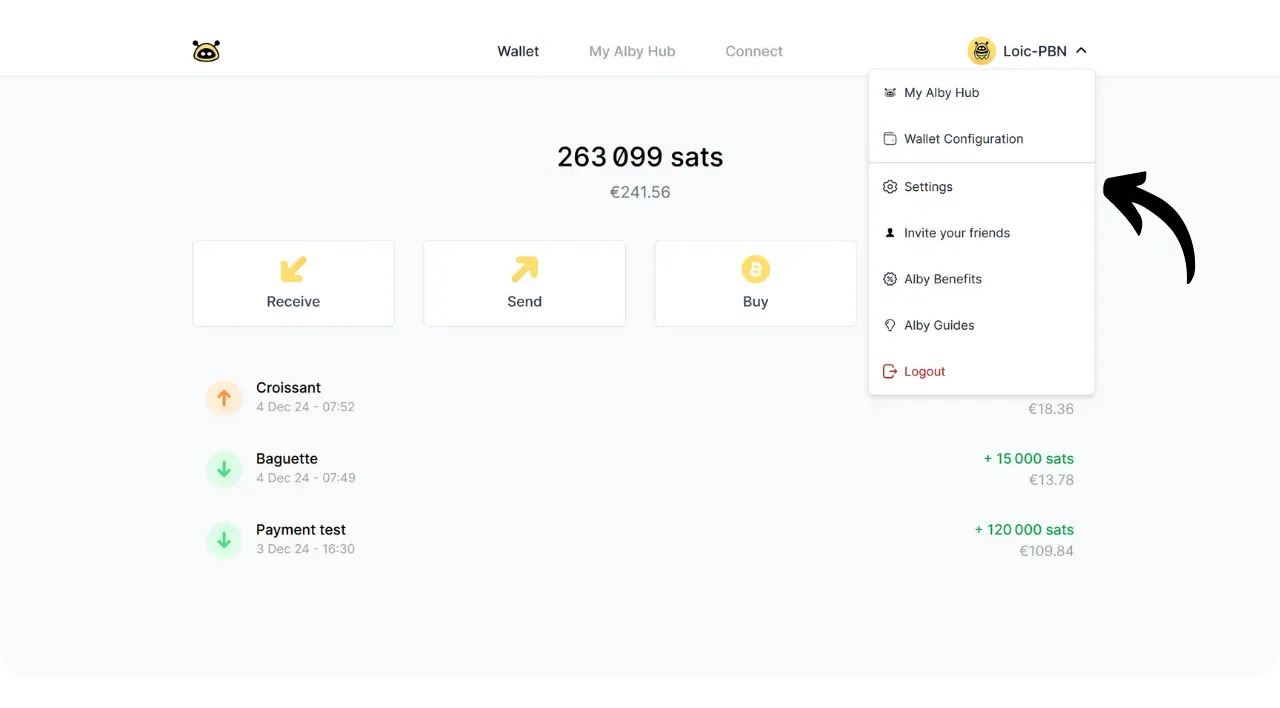
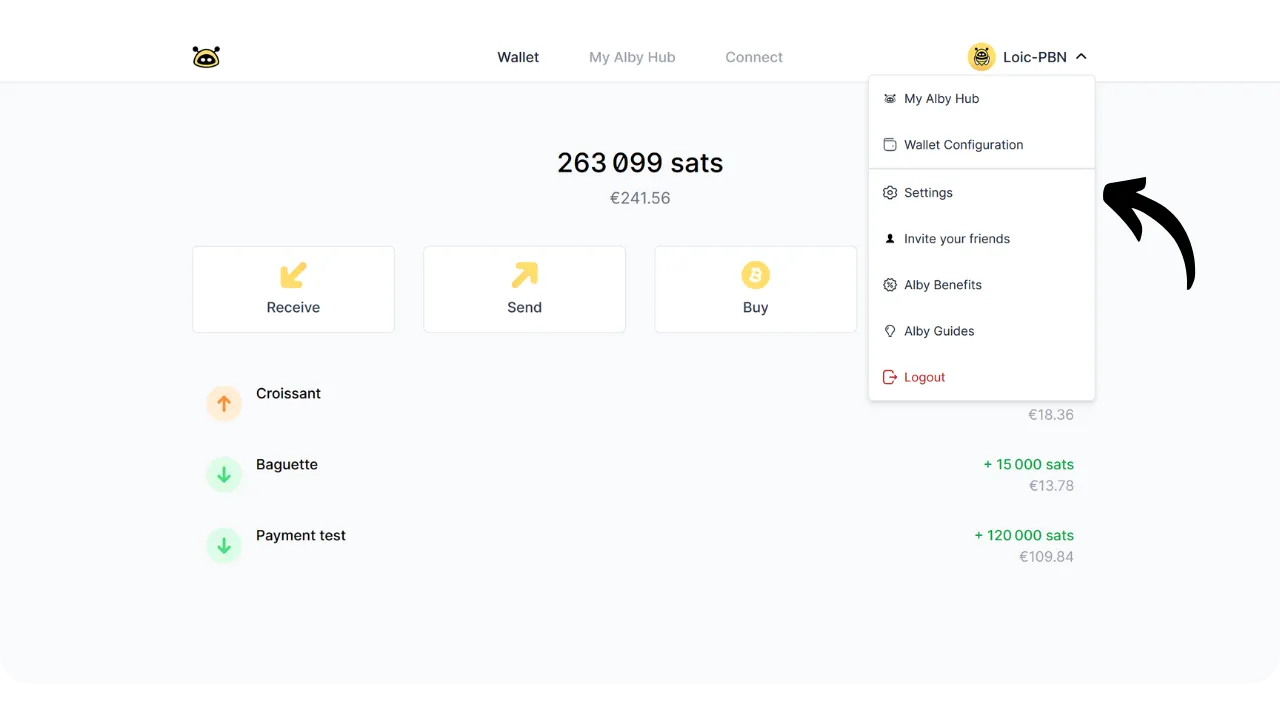
img path

diff --git a/tutorials/node/alby-hub/fr.md b/tutorials/node/alby-hub/fr.md
@@ -8,7 +8,7 @@ Alby Hub est le dernier logiciel développé par Alby, la société à l'origine
 
 Dans ce tutoriel, nous allons découvrir différentes façons d'utiliser Alby Hub pour gérer son propre nœud Lightning et comment le connecter à Alby Go, l'application mobile d'Alby. Cela vous permettra de dépenser vos sats en déplacement tout en étant autonome sur la gestion de votre nœud.
 
-01
+![ALBY HUB](assets/fr/01.webp)
 
 ## C'est quoi Alby Hub ?
 
@@ -36,11 +36,11 @@ Pour les utilisateurs avancés, Alby Hub peut être déployé sur un serveur per
 
 Ce tutoriel se concentre principalement sur l'interface, qui sera la même quelle que soit l'option choisie. Nous allons également voir comment déployer Alby Hub avec l'option du cloud payant, puis avec l'option du node-in-box (Umbrel ou Start9).
 
-02
+![ALBY HUB](assets/fr/02.webp)
 
 Pour une installation locale sur votre PC, [téléchargez et installez le logiciel selon votre système d'exploitation](https://github.com/getAlby/hub/releases), puis suivez les mêmes instructions au niveau de l'interface.
 
-03
+![ALBY HUB](assets/fr/03.webp)
 
 ## Créer un compte Alby
 
@@ -48,23 +48,23 @@ La première étape consiste à créer un compte Alby. Bien que ce ne soit pas i
 
 Rendez-vous sur [le site officiel d'Alby](https://getalby.com/) et cliquez sur le bouton "*Create Account*".
 
-04
+![ALBY HUB](assets/fr/04.webp)
 
 Saisissez un pseudonyme et une adresse email, puis cliquez sur "*Sign up*". Cette adresse email servira à vous connecter à votre compte par la suite.
 
-05
+![ALBY HUB](assets/fr/05.webp)
 
 Entrez le code de vérification que vous avez reçu par email.
 
-06
+![ALBY HUB](assets/fr/06.webp)
 
 Une fois connecté à votre compte en ligne, cliquez sur le bouton "*Continue*".
 
-07
+![ALBY HUB](assets/fr/07.webp)
 
 Cliquez de nouveau sur "*Continue*".
 
-08
+![ALBY HUB](assets/fr/08.webp)
 
 ## L'option d'hébergement cloud
 
@@ -72,23 +72,23 @@ Vous devrez ensuite choisir entre une option self-hosted, où vous hébergez un 
 
 Cliquez sur "*Upgrade*".
 
-09
+![ALBY HUB](assets/fr/09.webp)
 
 Confirmez en cliquant sur "*Subscribe Now*".
 
-10
+![ALBY HUB](assets/fr/10.webp)
 
 Cliquez sur "*Launch Alby Hub*".
 
-11
+![ALBY HUB](assets/fr/11.webp)
 
 Patientez quelques instants le temps que votre nœud soit créé.
 
-12
+![ALBY HUB](assets/fr/12.webp)
 
 Et voilà, votre Alby Hub est désormais configuré. Dans la partie suivante, je vous montrerai comment installer Alby Hub sur un nœud déjà existant. Si vous n'en avez pas besoin, vous pouvez passer directement à la section suivante pour configurer votre nœud.
 
-13
+![ALBY HUB](assets/fr/13.webp)
 
 ## L'option d'auto-hébergement
 
@@ -98,25 +98,25 @@ Pour configurer cela sur Umbrel (les étapes pour Start9 sont identiques), vous 
 
 Connectez-vous à votre interface Umbrel et allez dans le magasin d'applications.
 
-14
+![ALBY HUB](assets/fr/14.webp)
 
 Recherchez l'application "*Alby Hub*".
 
-15
+![ALBY HUB](assets/fr/15.webp)
 
 Installez-la sur votre nœud.
 
-16
+![ALBY HUB](assets/fr/16.webp)
 
 Votre interface Alby Hub est maintenant prête. Vous pouvez suivre le reste du tutoriel comme si vous utilisiez l'interface cloud, mais sans les options de la version payante. De plus, contrairement à la version cloud, vos clés sont conservées localement sur votre nœud et non sur les serveurs d'Alby.
 
-17
+![ALBY HUB](assets/fr/17.webp)
 
 ## Lancer Alby Hub
 
 Cliquez sur le bouton "*Get Started*".
 
-18
+![ALBY HUB](assets/fr/18.webp)
 
 Alby Hub vous invitera ensuite à choisir un mot de passe. Ce mot de passe est très important, car il sera utilisé pour chiffrer votre portefeuille. Dans la version cloud payante, vos clés sont conservées sur le serveur d'Alby, chiffrées avec ce mot de passe que vous êtes le seul à connaître, puis déchiffrées et stockées uniquement en RAM pour signer les transactions quand nécessaire.
 
@@ -124,27 +124,27 @@ Il est donc essentiel de choisir un mot de passe robuste. Toute personne posséd
 
 Après avoir soigneusement choisi et sauvegardé votre mot de passe, cliquez sur "*Create Password*".
 
-19
+![ALBY HUB](assets/fr/19.webp)
 
 Vous avez maintenant accès à votre nœud Lightning.
 
-20
+![ALBY HUB](assets/fr/20.webp)
 
-La première action à entreprendre est de sauvegarder votre phrase de récupération, à partir de laquelle vos clés sont dérivées. Cette phrase vous permet de récupérer l'accès à votre wallet onchain et, avec le dernier état de vos canaux, vos sats sur Lightning. Pour cela, cliquez sur "*Settings*".
+La première action à faire est de sauvegarder votre phrase de récupération, à partir de laquelle vos clés sont dérivées. Cette phrase vous permet de récupérer l'accès à votre wallet onchain et, avec le dernier état de vos canaux, vos sats sur Lightning. Pour cela, cliquez sur "*Settings*".
 
-21
+![ALBY HUB](assets/fr/21.webp)
 
 Rendez-vous ensuite dans l'onglet "*Backup*". Entrez votre mot de passe pour y accéder.
 
-22
+![ALBY HUB](assets/fr/22.webp)
 
 Vous aurez alors accès à votre phrase de récupération de 12 mots. Réalisez une ou plusieurs sauvegardes physiques de cette phrase sur du papier ou du métal et conservez-la en lieu sûr.
 
-23
+![ALBY HUB](assets/fr/23.webp)
 
 Après avoir sauvegardé la phrase, cochez la case confirmant que vous l'avez bien sauvegardée et cliquez sur "*Continue*".
 
-24
+![ALBY HUB](assets/fr/24.webp)
 
 ## Comment récupérer l'accès à ses bitcoins ?
 
@@ -165,39 +165,39 @@ Pour ceux qui hébergent leur propre nœud, le processus de récupération est i
 
 Vous pouvez maintenant suivre les instructions fournies par Alby Hub. Cliquez sur le bouton pour ouvrir votre premier canal et ainsi disposer de liquidités entrantes.
 
-25
+![ALBY HUB](assets/fr/25.webp)
 
 Sélectionnez "*Open Channel*". Si vous n'avez pas l'intention de devenir un nœud de routage et que vous n'en avez pas spécifiquement besoin, je vous recommande d'opter pour des canaux privés.
 
-26
+![ALBY HUB](assets/fr/26.webp)
 
 Alby Hub va générer une invoice que vous devrez payer. Ce paiement couvre les frais de transaction nécessaires pour ouvrir votre canal, ainsi que les frais de service du LSP (*Lightning Service Provider*) qui ouvrira un canal vers votre nœud, ce qui vous permet de recevoir immédiatement des paiements.
 
-27
+![ALBY HUB](assets/fr/27.webp)
 
 Une fois l'invoice payée et la transaction confirmée, votre premier canal Lightning est établi.
 
-28
+![ALBY HUB](assets/fr/28.webp)
 
 Dans l'onglet "*Node*", vous pouvez constater que vous disposez désormais de liquidités entrantes, ce qui vous permet de recevoir des paiements via Lightning.
 
-29
+![ALBY HUB](assets/fr/29.webp)
 
 Pour recevoir un paiement, cliquez sur l'onglet "*Wallet*" puis sur "*Receive*".
 
-30
+![ALBY HUB](assets/fr/30.webp)
 
 Indiquez un montant et ajoutez une description si nécessaire, puis cliquez sur "*Create Invoice*".
 
-31
+![ALBY HUB](assets/fr/31.webp)
 
 J'ai reçu mon premier paiement de 120 000 sats.
 
-32
+![ALBY HUB](assets/fr/32.webp)
 
 En retournant dans l'onglet "*Wallet*", vous pouvez vérifier le solde de votre portefeuille. Notez qu'Alby Hub met automatiquement en réserve 354 sats lors du premier paiement. Pour chaque canal Lightning que vous ouvrez par la suite, Alby Hub constituera automatiquement une réserve équivalente à 1% des capacités du canal. Cette réserve est une mesure de sécurité qui permet à votre nœud de récupérer les fonds du canal en cas de tentative de fraude par votre pair. C'est pourquoi, bien que j'aie envoyé 120 000 sats, seul 119 646 sats sont affichés sur mon solde.
 
-33
+![ALBY HUB](assets/fr/33.webp)
 
 ## Déposer des bitcoins onchain
 
@@ -205,43 +205,43 @@ Pour avoir des liquidités sortantes qui vous permettront d'effectuer des paieme
 
 Depuis l'onglet "*Node*", cliquez sur "*Deposit*".
 
-34
+![ALBY HUB](assets/fr/34.webp)
 
 Envoyez des bitcoins à l'adresse qui s'affiche. Cette adresse est dérivée de votre phrase de récupération que vous avez sauvegardée précédemment.
 
-35
+![ALBY HUB](assets/fr/35.webp)
 
 J'ai envoyé 72 000 sats. Ils sont maintenant visibles dans "*Savings Balance*", qui regroupe tous les fonds que je possède onchain, et non sur Lightning.
 
-36
+![ALBY HUB](assets/fr/36.webp)
 
 ## Ouvrir un canal Lightning
 
-Maintenant que vous disposez de fonds onchain, vous pouvez ouvrir un nouveau canal Lightning. Il est conseillé d'ouvrir plusieurs canaux, avec des montants suffisants pour assurer que vous puissiez toujours effectuer des paiements sans contrainte. La plupart des LSP (Lightning Service Providers) demandent un minimum de 150 000 sats pour ouvrir un canal avec vous.
+Maintenant que vous disposez de fonds onchain, vous pouvez ouvrir un nouveau canal Lightning. Il est conseillé d'ouvrir plusieurs canaux, avec des montants suffisants pour assurer que vous puissiez toujours effectuer des paiements sans contrainte. La plupart des LSP (*Lightning Service Providers*) demandent un minimum de 150 000 sats pour ouvrir un canal avec vous.
 
 Dans l'onglet "*Node*", cliquez sur "*Open Channel*".
 
-37
+![ALBY HUB](assets/fr/37.webp)
 
 Sélectionnez la taille de votre canal. Je vous recommande de ne pas ouvrir de canaux trop petits, tout en gardant à l'esprit que c'est un nœud Lightning et que la machine hébergeant vos clés n'offre pas le même niveau de sécurité qu'un hardware wallet. Soyez donc prudents avec les montants que vous choisissez de bloquer.
 
-38
+![ALBY HUB](assets/fr/38.webp)
 
 Dans le menu "*Advanced Options*", vous avez la possibilité de choisir avec quel LSP ouvrir votre canal, ou d'entrer manuellement un autre nœud Lightning.
 
-39
+![ALBY HUB](assets/fr/39.webp)
 
 Cliquez ensuite sur "*Open Channel*".
 
-40
+![ALBY HUB](assets/fr/40.webp)
 
 Patientez pendant que l'ouverture de votre canal est confirmée onchain.
 
-41
+![ALBY HUB](assets/fr/41.webp)
 
 Votre nouveau canal apparaîtra désormais dans l'onglet "*Node*".
 
-42
+![ALBY HUB](assets/fr/42.webp)
 
 ## Connecter une application de dépense
 
@@ -249,99 +249,99 @@ Maintenant que vous disposez d'un nœud Lightning fonctionnel, vous pouvez l'uti
 
 Dans ce tutoriel, je vous recommande d'opter pour Alby Go, qui est très simple d'utilisation, mais vous pouvez également utiliser d'autres applications compatibles comme Zeus.
 
-43
+![ALBY HUB](assets/fr/43.webp)
 
 Pour installer Alby Go, rendez-vous sur le magasin d'applications de votre appareil :
 - [Pour Android](https://play.google.com/store/apps/details?id=com.getalby.mobile);
 - [Pour Apple](https://apps.apple.com/us/app/alby-go/id6471335774).
 
-44
+![ALBY HUB](assets/fr/44.webp)
 
 Les utilisateurs Android peuvent aussi installer l'application via le fichier `.apk` [disponible sur le GitHub d'Alby](https://github.com/getAlby/go/releases).
 
-45
+![ALBY HUB](assets/fr/45.webp)
 
 Au lancement de l'application, cliquez sur "*Connect Wallet*".
 
-46
+![ALBY HUB](assets/fr/46.webp)
 
 Dans votre Alby Hub, sous l'onglet "*Connections*", cliquez sur "*Add Connection*".
 
-47
+![ALBY HUB](assets/fr/47.webp)
 
 Nommez cette connexion pour l'identifier facilement dans votre Hub, et sélectionnez les permissions que vous souhaitez accorder à l'application. Dans mon cas, je choisis "*Full Access*" pour avoir un accès total aux fonds de mon nœud Lightning depuis mon smartphone, mais vous pouvez également limiter l'accès par un budget maximal, sélectionner les fonctionnalités autorisées, ou fixer une date d'expiration pour ces permissions. Une fois la configuration terminée, cliquez sur "*Next*".
 
-48
+![ALBY HUB](assets/fr/48.webp)
 
 Alby Hub générera alors un secret pour établir la connexion.
 
-49
+![ALBY HUB](assets/fr/49.webp)
 
 Retournez sur l'application Alby Go, scannez le QR code ou collez le secret.
 
-50
+![ALBY HUB](assets/fr/50.webp)
 
 Cliquez sur "*Finish*".
 
-51
+![ALBY HUB](assets/fr/51.webp)
 
 Vous avez maintenant accès à distance à votre nœud Lightning depuis votre smartphone, ce qui facilite les dépenses et les réceptions de sats en déplacement au quotidien.
 
-52
+![ALBY HUB](assets/fr/52.webp)
 
 Si nécessaire, vous pouvez gérer les autorisations de cette connexion directement sur Alby Hub en cliquant dessus.
 
-53
+![ALBY HUB](assets/fr/53.webp)
 
 Pour recevoir des sats, cliquez simplement sur "*Receive*".
 
-54
+![ALBY HUB](assets/fr/54.webp)
 
 Modifiez le montant et la description de l'invoice en cliquant sur "*Invoice*".
 
-55
+![ALBY HUB](assets/fr/55.webp)
 
 Faites-vous payer l'invoice pour recevoir des sats.
 
-56
+![ALBY HUB](assets/fr/56.webp)
 
 Pour envoyer des sats, cliquez sur "*Send*".
 
-57
+![ALBY HUB](assets/fr/57.webp)
 
 Scannez l'invoice que vous souhaitez payer.
 
-58
+![ALBY HUB](assets/fr/58.webp)
 
 Cliquez ensuite sur "*Pay*".
 
-59
+![ALBY HUB](assets/fr/59.webp)
 
 Votre transaction est confirmée.
 
-60
+![ALBY HUB](assets/fr/60.webp)
 
 En cliquant sur la petite flèche, vous pouvez accéder à votre historique de transactions.
 
-61
+![ALBY HUB](assets/fr/61.webp)
 
 Ces transactions sont également visibles sur votre Alby Hub.
 
-62
+![ALBY HUB](assets/fr/62.webp)
 
 ## Personnaliser son adresse Lightning
 
 Alby vous offre la possibilité de disposer d'une adresse Lightning. Elle vous permet de recevoir des paiements sur votre nœud sans devoir générer manuellement une invoice à chaque fois. Par défaut, Alby vous attribue une adresse Lightning, mais vous pouvez la personnaliser. Connectez-vous à votre compte Alby en ligne, cliquez sur votre nom en haut à droite, puis sélectionnez "*Settings*".
 
-63
+![ALBY HUB](assets/fr/63.webp)
 
 Naviguez jusqu'au menu "*Lightning Address*".
 
-64
+![ALBY HUB](assets/fr/64.webp)
 
 Modifiez votre adresse, puis confirmez en cliquant sur "*Update your lightning address*".
 
-65
+![ALBY HUB](assets/fr/65.webp)
 
 Attention, une fois modifiée, votre ancienne adresse ne vous appartient plus. Assurez-vous donc de ne plus y faire envoyer des sats.
 
